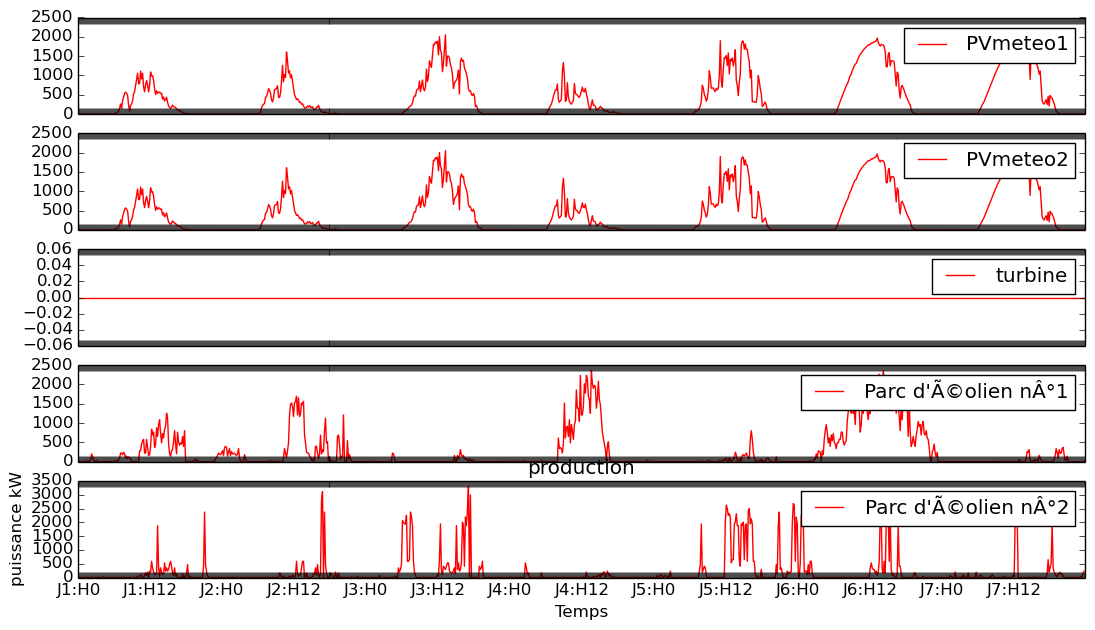
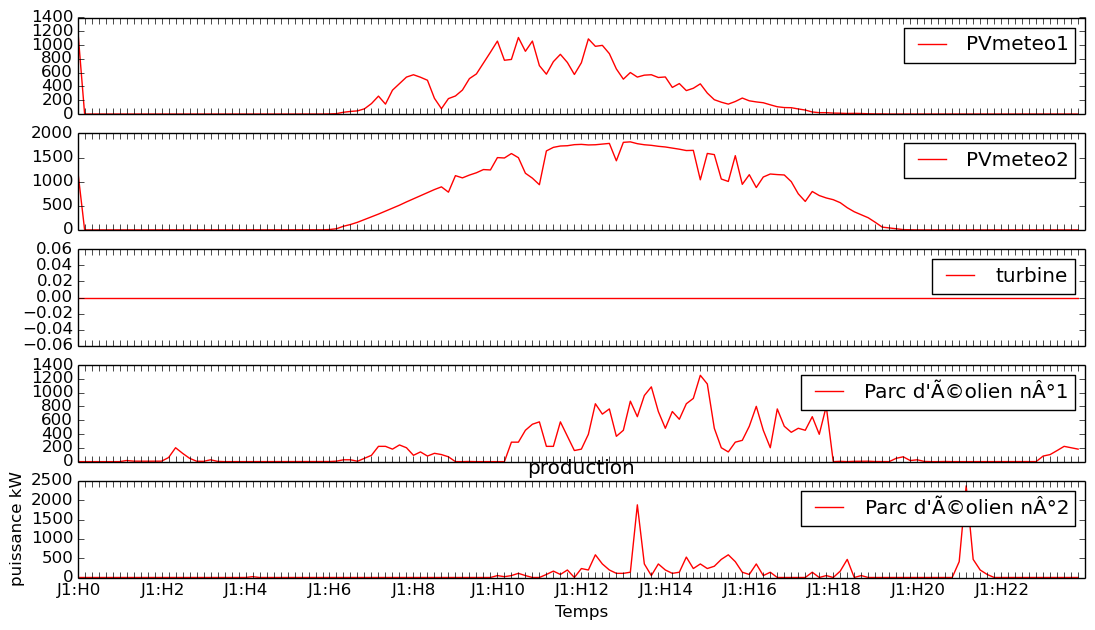
maj

diff --git a/Ville.py b/Ville.py
@@ -16,7 +16,7 @@ class Ville:
 
 	def __init__(self):
 		self.equipProduction = [ParcSolaire(nom="PVmeteo1",prod=250.,activite=50.,nb=10.,meteo=meteo1),\
-		                        ParcSolaire("PVmeteo2",prod=250.,activite=50.,nb=10.,meteo=meteo1),\
+		                        ParcSolaire("PVmeteo2",prod=250.,activite=50.,nb=10.,meteo=meteo2),\
 		                        ParcTurbineAGaz("turbine"),\
 		                        ParcEolien(nom="eolienne,meteo1",n=500., eolienne="eolienne5", meteoVent=meteo1),\
 		                        ParcEolien(nom="eolienne,meteo2",n=5., eolienne="eolienne1500", meteoVent=meteo2)]

diff --git a/analyseur.py b/analyseur.py
@@ -8,9 +8,10 @@ from numpy import where
 #nécéssite matplotlib!!!!
 
 assert __name__ == '__main__'
+
 numtest=1
 #pas pour l'affichage des légendes
-pas=12*6#6H
+pas=2*6#6H
 export=True
 affichage=False
 

diff --git a/main.py b/main.py
@@ -17,7 +17,7 @@ from Utilitaire.BaseDeDonnees import BaseDeDonnees
 
 """initialisation de la Ville dans l'objet Ville"""
 ville = Ville()
-numTest=0
+numTest=1
 duree=1*24*6
 
 
